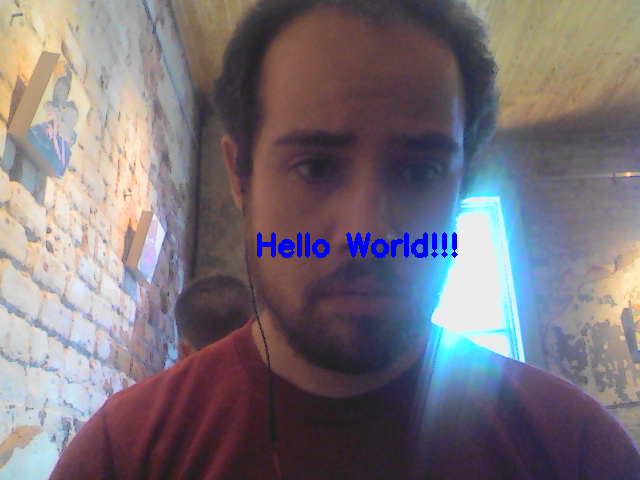
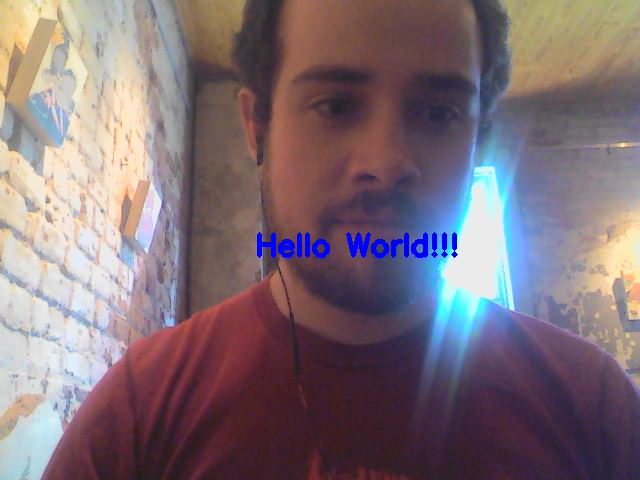
Video with basic overlay works!

diff --git a/main.py b/main.py
@@ -11,8 +11,9 @@ cv.NamedWindow('a_window', cv.CV_WINDOW_AUTOSIZE)
 webcam=cv.CaptureFromCAM(0)
 font = cv.InitFont(cv.CV_FONT_HERSHEY_SIMPLEX, 1, 1, 0, 3, 8) #Creates a font
 
-image=cv.QueryFrame(webcam)
-cv.PutText(image,"Hello World!!!", (x,y),font, 255) #Draw the text
-cv.ShowImage('a_window', image) #Show the image
-cv.WaitKey(10000)
-cv.SaveImage('image.png', image) #Saves the image
+while True:
+    image=cv.QueryFrame(webcam)
+    cv.PutText(image,"Hello World!!!", (x,y),font, 255) #Draw the text
+    cv.ShowImage('a_window', image) #Show the image
+    cv.WaitKey(2)
+    cv.SaveImage('image.png', image) #Saves the image
